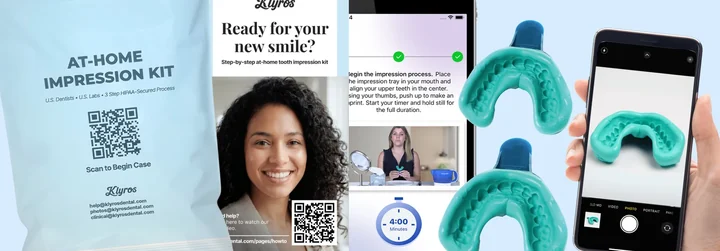
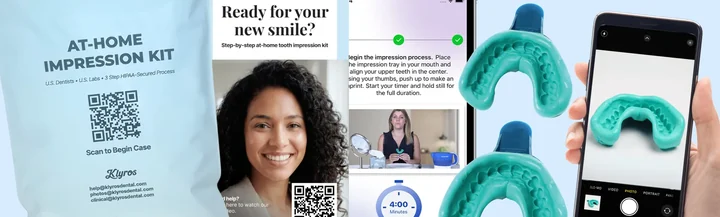
Hero (mobile first): subtle 'Licensed Dentist Oversight' badge above the partial and 'Made by a U.S. Dental Lab Technician' below it, left-aligned; row of 4 partials right above the Flex card, taller video, tighter kit bar, headline flush on the blue card
Claude-Session: https://claude.ai/code/session_014F9sdLiERsrpcPpryZnGzc

diff --git a/src/styles.css b/src/styles.css
@@ -1775,3 +1775,59 @@ body, button, input { font-family: 'Plus Jakarta Sans Variable', 'Inter', -apple
   .hv-side .hv-tile:last-child { border-radius: 0 0 0 22px; }
   .hv-body { margin-bottom: -44px; }
 }
+/* Headline sits right on the blue card */
+.offer-screen .cr-head { margin-bottom: 6px; }
+/* Range row: 4 partials along the bottom of the blue card, kept apart from the main partial */
+.hv-body { margin-bottom: 0; }
+.hv-side .hv-tile:last-child { aspect-ratio: 1 / 1; border-radius: 0 0 0 16px; }
+.offer-screen .hero-card.hv { padding-bottom: 12px; }
+.hv-range { display: grid; grid-template-columns: repeat(4, 1fr); gap: 8px; align-items: center; padding: 2px 4px 0; }
+.hv-range img { display: block; width: 100%; height: auto; filter: drop-shadow(0 6px 10px rgba(10, 22, 40, 0.3)); }
+@media (min-width: 1024px) {
+  .hv-side .hv-tile:last-child { border-radius: 0 0 0 22px; }
+  .offer-screen .hero-card.hv { padding-bottom: 18px; }
+  .hv-range { gap: 20px; padding: 6px 30px 0; }
+}
+.offer-screen .cr-head { margin-bottom: 0; }
+.offer-screen .hero-card.hv { padding-bottom: 34px; }
+@media (min-width: 1024px) { .offer-screen .hero-card.hv { padding-bottom: 22px; } }
+/* Tighter kit bar, taller video, partial row tucked right above the Flex card */
+.hv-kit { padding: 4px 10px 4px 4px; gap: 8px; }
+.hv-kit img { flex-basis: 64%; width: 64%; border-radius: 12px; }
+.hv-kit span { font-size: 25px; }
+.offer-screen .hero-card.hv { gap: 8px; padding-bottom: 28px; }
+.hv-side .hv-tile:last-child { aspect-ratio: 4 / 5; }
+.hv-range { padding-top: 0; }
+@media (min-width: 1024px) { .hv-kit span { font-size: 40px; } .offer-screen .hero-card.hv { padding-bottom: 16px; gap: 12px; } }
+/* Mobile: row right above the Flex card, video taller toward the row */
+.offer-screen .hero-card.hv { padding-bottom: 22px; gap: 6px; }
+.hv-side .hv-tile:last-child { aspect-ratio: 2 / 3; }
+.hv-range { margin-top: 2px; }
+@media (min-width: 1024px) { .hv-side .hv-tile:last-child { aspect-ratio: 4 / 5; } .offer-screen .hero-card.hv { padding-bottom: 16px; gap: 12px; } }
+/* Trust badges top-left of the blue, partial a bit lower */
+.hv-left { display: flex; flex-direction: column; align-self: stretch; padding: 4px 0 6px 2px; }
+.hv-badges { display: flex; flex-direction: column; align-items: flex-start; gap: 6px; }
+.hv-badge { padding: 6px 11px; border-radius: 10px; background: #ffffff; color: #0a1628; font-size: 13px; font-weight: 800; white-space: nowrap;
+  box-shadow: 0 4px 12px rgba(10, 22, 40, 0.18); }
+.hv-left .hv-partial { margin: auto 0; padding-top: 18px; }
+@media (min-width: 1024px) { .hv-badge { font-size: 17px; padding: 8px 16px; border-radius: 12px; } .hv-badges { gap: 10px; } .hv-left { padding: 8px 0 10px 8px; } }
+/* Partial centered, trust badges right under it (leading into the Flex card) */
+.hv-left { justify-content: center; gap: 12px; padding: 6px 0 4px 2px; }
+.hv-left .hv-partial { margin: 0; padding-top: 0; }
+.hv-badges { gap: 6px; }
+.hv-badge { display: inline-flex; align-items: flex-start; gap: 6px; padding: 6px 10px; font-size: 12.5px; line-height: 1.25; white-space: normal; border-radius: 10px; }
+.hv-badge i { flex: 0 0 auto; display: grid; place-items: center; width: 15px; height: 15px; margin-top: 1px; border-radius: 50%; background: #2563eb; color: #fff; font-size: 9px; font-style: normal; font-weight: 900; }
+@media (min-width: 1024px) { .hv-badge { font-size: 17px; padding: 8px 14px; } .hv-badge i { width: 20px; height: 20px; font-size: 12px; } .hv-left { gap: 22px; } }
+/* Subtle badges: one above, one below the partial, left-aligned */
+.hv-left { align-items: flex-start; justify-content: center; gap: 10px; padding: 4px 0 4px 2px; }
+.hv-left .hv-partial { width: 100%; }
+.hv-badge { display: inline-block; padding: 5px 10px; border-radius: 9px; background: #ffffff; color: #0a1628; font-size: 11.5px; font-weight: 800;
+  line-height: 1.2; white-space: nowrap; box-shadow: 0 3px 10px rgba(10, 22, 40, 0.16); }
+@media (min-width: 1024px) { .hv-badge { font-size: 17px; padding: 8px 15px; border-radius: 12px; } .hv-left { gap: 18px; padding-left: 8px; } }
+.hv-body { grid-template-columns: minmax(0, 1fr) 39%; }
+.hv-left { min-width: 0; }
+.hv-badge { font-size: 11px; max-width: 100%; white-space: normal; }
+@media (min-width: 1024px) { .hv-body { grid-template-columns: minmax(0, 1fr) 34%; } .hv-badge { font-size: 17px; white-space: nowrap; } }
+.hv-badge { text-wrap: balance; }
+.hv-badge { white-space: nowrap; text-align: left; }
+@media (min-width: 1024px) { .hv-br { display: none; } }

diff --git a/src/components/OfferScreen.jsx b/src/components/OfferScreen.jsx
@@ -309,11 +309,15 @@ function HeroCard({ shots, teeth }) {
   return (
     <figure className="hero-card hv">
       <div className="hv-kit">
-        <img src="/images/offer/kit-banner.webp" alt="The Klyros impression kit" width="720" height="251" />
+        <img src="/images/offer/kit-banner.webp" alt="The Klyros impression kit" width="720" height="218" />
         <span>Kit included</span>
       </div>
       <div className="hv-body">
-        <img className="hv-partial" src="/images/partials/flex-partial.webp" alt="Flex Partial" width="1158" height="711" />
+        <div className="hv-left">
+          <span className="hv-badge">Licensed Dentist Oversight</span>
+          <img className="hv-partial" src="/images/partials/flex-partial.webp" alt="Flex Partial" width="1158" height="711" />
+          <span className="hv-badge">Made by a U.S.<br className="hv-br" /> Dental Lab Technician</span>
+        </div>
         <div className="hv-side">
           <figure className="hv-tile hv-ba">
             <img src="/images/offer/hero-ba.webp" alt="A real patient's smile before and after a partial" width="520" height="528" />
@@ -333,6 +337,11 @@ function HeroCard({ shots, teeth }) {
             />
           </figure>
         </div>
+      </div>
+      <div className="hv-range" aria-label="Partials for different gaps">
+        {['p1', 'p2', 'p4', 'pmany'].map((k) => (
+          <img key={k} src={`/images/partials/range-${k}.webp`} alt="" loading="lazy" />
+        ))}
       </div>
     </figure>
   );
